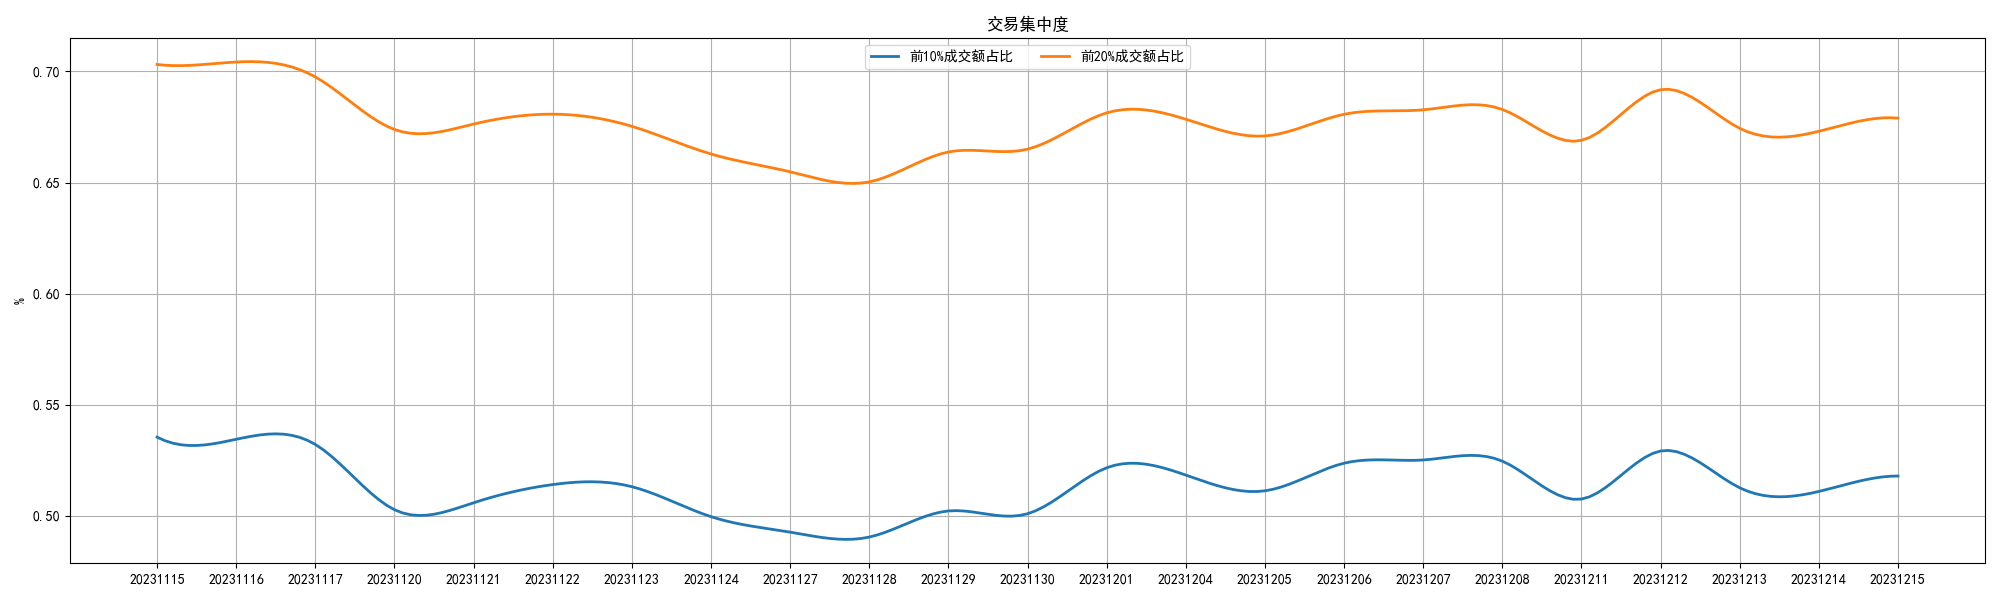
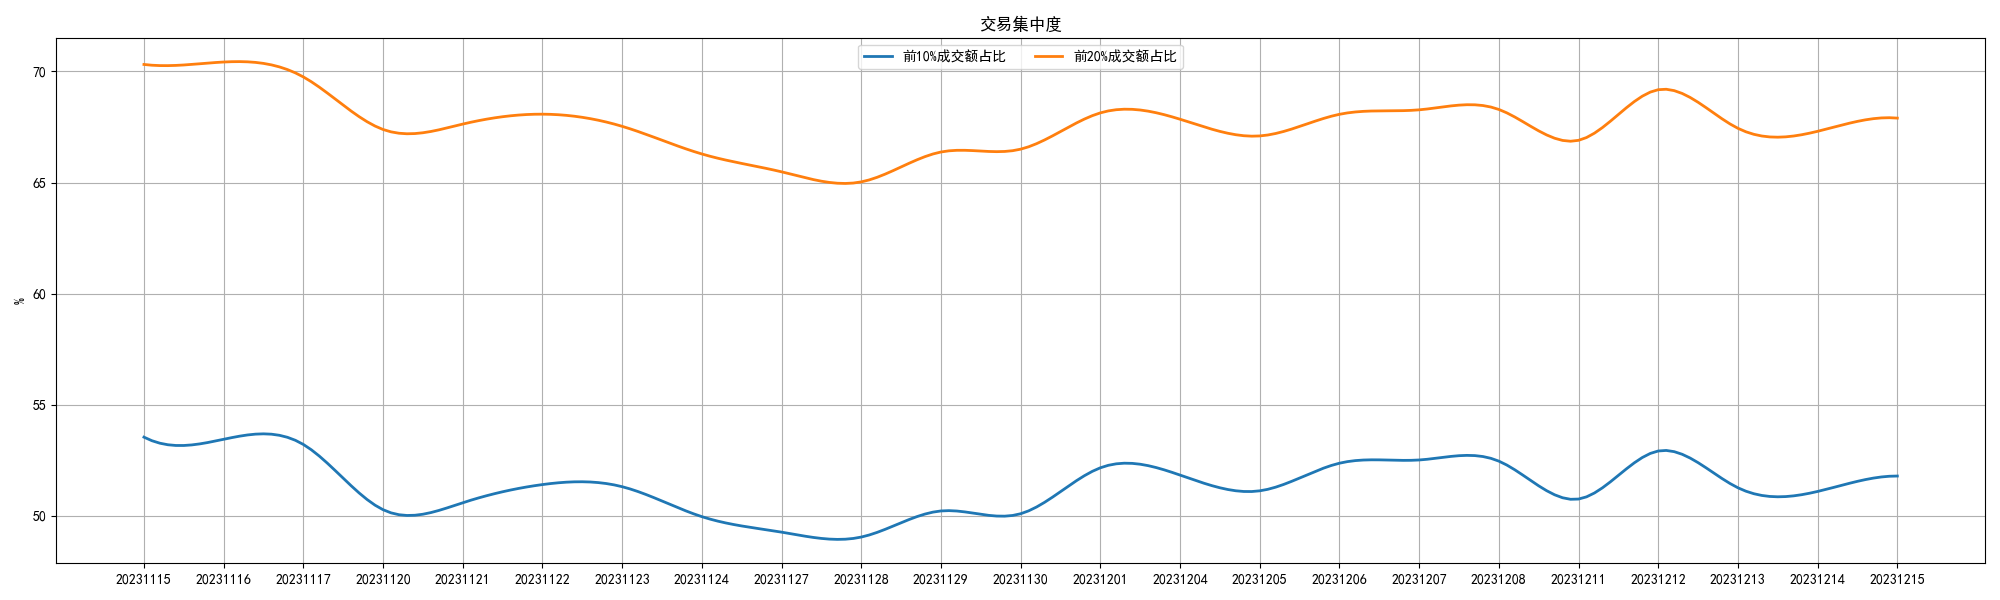
更新

diff --git a/MarketEnvironmentIndex/交易集中度.py b/MarketEnvironmentIndex/交易集中度.py
@@ -78,14 +78,14 @@ for i in range(num_date):
     sum_total = allRatioDF1[column_name].sum()
     # 计算结果
     result1 = sum_top_10_percent / sum_total
-    con104list.append(result1)
+    con104list.append(result1*100)
 
     top_20_percent = df_sorted.head(int(0.2 * len(df_sorted)))
     # 计算前 10% 的数据某一列的加总
     sum_top_20_percent = top_20_percent[column_name].sum()
     # 计算结果
     result2 = sum_top_20_percent / sum_total
-    con204list.append(result2)
+    con204list.append(result2*100)
 
 plt.figure(figsize=(20, 6))
 date = [item[0:4] + item[5:7] + item[8:10] for item in column_names[1::]]
